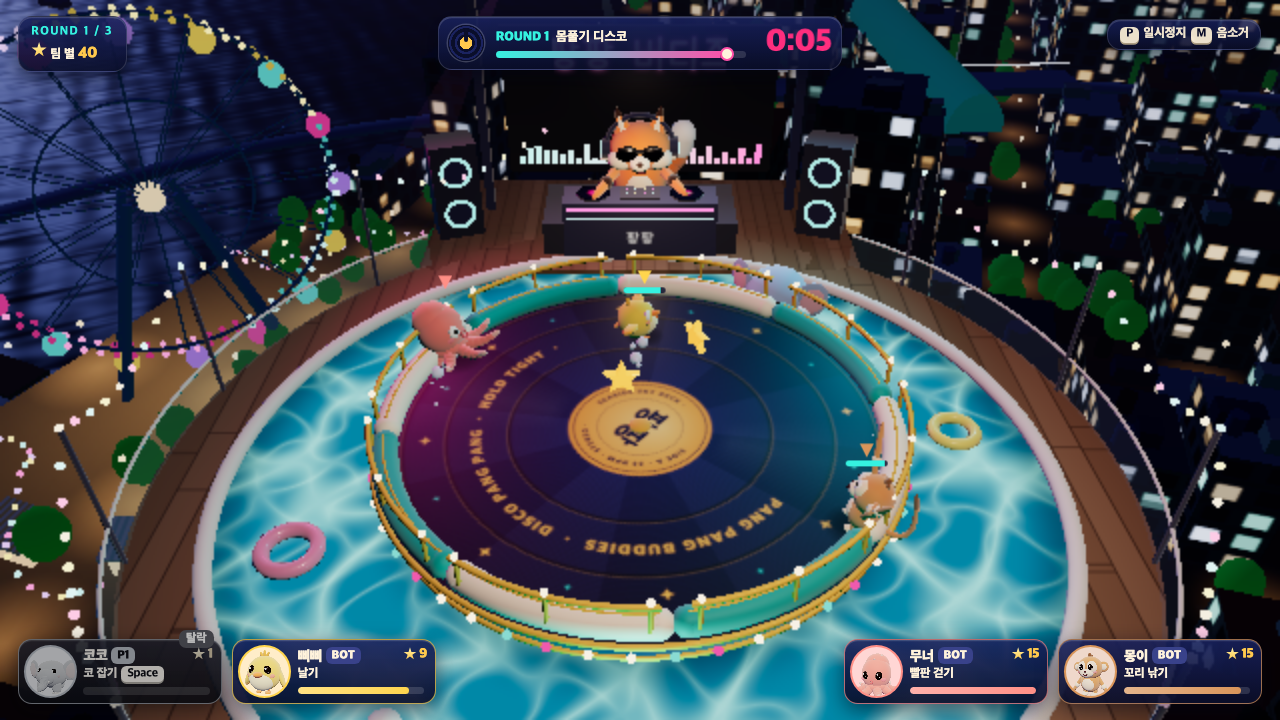
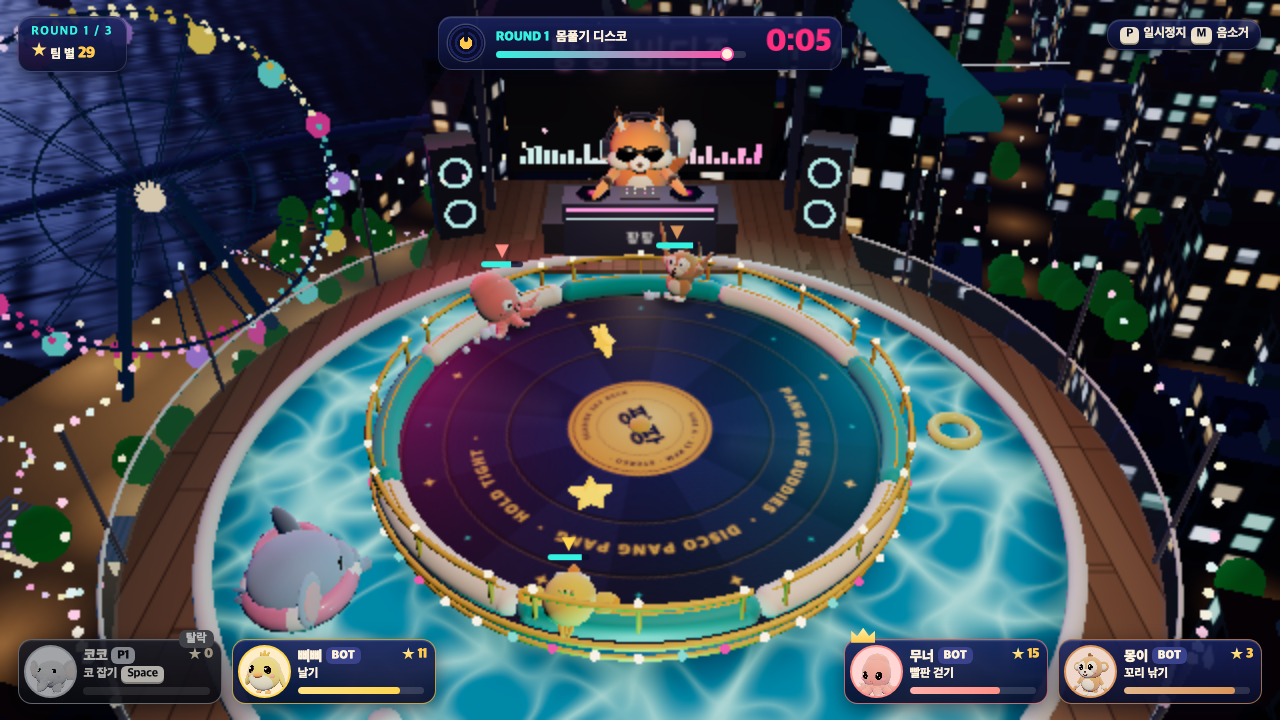
feat: stronger pangs, combo pangs and critical pangs

diff --git a/src/main.js b/src/main.js
@@ -1639,17 +1639,20 @@ const Sim = (() => {
     const cues = [], b = 60 / s.dj.bpm, T = tune.round_seconds, snap = t => Math.round(t / b) * b;
     const top = [tune.spin_r1, tune.spin_r2, tune.spin_r3][n - 1], gap = [tune.pang_gap_r1, tune.pang_gap_r2, tune.pang_gap_r3][n - 1];
     const fakeP = [0, tune.fake_chance_r2, tune.fake_chance_r3][n - 1];
+    const critP = [tune.crit_chance_r1, tune.crit_chance_r2, tune.crit_chance_r3][n - 1], comboN = Math.round([tune.combo_r1, tune.combo_r2, tune.combo_r3][n - 1]);
     const push = (t, type, o) => cues.push(Object.assign({ t: Math.max(0, t), type }, o || {}));
     const pang = (t, power, o) => { // t is the impact, counted in on the beats before it
       o = o || {}; const cnt = o.count || 2;
       push(t - cnt * b, 'ring', { at: t, fake: o.fake ? 1 : 0, dur: cnt * b, quick: 0, teach: o.teach ? 1 : 0 });
       for (let i = 0; i < cnt; i++) push(t - (cnt - i) * b, 'count', { i: i + 1 });
       if (o.fake) { const late = snap(0.55 + rng() * 0.9) || b; push(t, 'fakeout'); push(t + late - 0.42, 'ring', { at: t + late, fake: 0, dur: 0.42, quick: 1, teach: 0 }); push(t + late, 'impact', { power, tgt: -1 }); }
-      else push(t, 'impact', { power, tgt: o.spot ? -2 : -1 });
+      else { const crit = !o.teach && !o.combo && rng() < critP ? 1 : 0; if (crit) push(t - b, 'critWarn'); push(t, 'impact', { power: crit ? power * tune.crit_mult : power, tgt: o.spot ? -2 : -1, crit }); }
+      if (o.combo) push(t - cnt * b, 'comboWarn', { n: (o.more || 0) + 1 });
       for (let k = 1; k <= (o.more || 0); k++) { push(t + (k - 1) * 2 * b + 0.05, 'ring', { at: t + k * 2 * b, fake: 0, dur: 2 * b - 0.05, quick: 0, teach: 0 }); push(t + k * 2 * b, 'impact', { power: power * 0.92, tgt: -1 }); }
     };
     const tilt = (t) => { const dir = Math.floor(rng() * 4) * Math.PI / 2 + (rng() - 0.5) * 0.5; push(t - 1.2, 'tiltWarn', { dir }); push(t, 'tiltOn', { dir }); push(t + tune.tilt_hold, 'tiltOff'); };
     const scratch = t => push(t, 'scratch');
+    const combo = (t, power) => pang(t, power, { more: comboN - 1, combo: 1 }); // 연속 팡팡: comboN hits, one every two beats
     const spot = (t, power) => { push(t - tune.spot_warn, 'spot'); pang(t, power, { spot: 1 }); };
     push(0, 'spin', { w: top * 0.5 });
     if (n === 1) {
@@ -1658,7 +1661,7 @@ const Sim = (() => {
       push(p1 + 3, 'spin', { w: top }); push(p1 + 3, 'say', { text: '속도 올립니다~' });
       pang(p2, 1, { teach: 1 });
       let t = p2 + gap, k = 0;
-      while (t < T - 9.5) { if (k === 2) pang(snap(t), 0.95, { more: 1 }); else pang(snap(t), 0.85 + rng() * 0.15); if (k % 2) push(t + 1.5, 'spin', { w: top * (0.8 + rng() * 0.3) }); t += gap * (0.9 + rng() * 0.25) + (k === 2 ? 2 * b : 0); k++; }
+      while (t < T - 9.5) { if (k === 2) combo(snap(t), 0.95); else pang(snap(t), 0.85 + rng() * 0.15); if (k % 2) push(t + 1.5, 'spin', { w: top * (0.8 + rng() * 0.3) }); t += gap * (0.9 + rng() * 0.25) + (k === 2 ? 2 * b : 0); k++; }
       push(T - 9, 'spin', { w: top * 1.25 }); push(T - 9, 'say', { text: '막판 스퍼트! 버틸 수 있을까~?' });
       pang(snap(T - 6.2), 1); pang(snap(T - 2.6), 1);
     } else if (n === 2) {
@@ -1673,7 +1676,7 @@ const Sim = (() => {
         else if (r < 0.52) tilt(st);
         else if (r < 0.74) { tilt(st); pang(snap(st + 1.6), 0.9); t += 1.2; }
         else if (r < 0.9) { scratch(st); pang(snap(st + 2.2), 0.95); t += 1.2; }
-        else pang(st, 0.9, { more: 1 });
+        else combo(st, 0.9);
         t += gap * (0.9 + rng() * 0.25); k++;
       }
       push(T - 9.5, 'spin', { w: top * 1.2 }); push(T - 9.5, 'say', { text: '10초 남았다! 버텨 봐~' });
@@ -1691,11 +1694,11 @@ const Sim = (() => {
         else if (r < 0.5) spot(st, 1);
         else if (r < 0.7) { tilt(st); pang(snap(st + 1.6), 0.95); t += 1.2; }
         else if (r < 0.85) { scratch(st); pang(snap(st + 2.2), 1); t += 1.2; }
-        else pang(st, 0.95, { more: 2 });
+        else combo(st, 0.95);
         t += gap * (0.9 + rng() * 0.25);
       }
       push(T - 9.5, 'spin', { w: top * 1.3 }); push(T - 9.5, 'say', { text: '마지막이다~! 다 떨어져라!' });
-      pang(snap(T - 7.4), 1); pang(snap(T - 4.2), 1, { more: 1 });
+      pang(snap(T - 7.4), 1); combo(snap(T - 4.6), 1);
     }
     cues.sort((p, q) => p.t - q.t);
     return cues;
@@ -1713,7 +1716,9 @@ const Sim = (() => {
     else if (c.type === 'ring') { s.tele = { at: c.at, start: s.rt, dur: Math.max(0.05, c.at - s.rt), fake: c.fake, quick: c.quick }; botsOnRing(s, c); }
     else if (c.type === 'count') { callout(s, ['하나!', '둘!', '셋!'][c.i - 1], 'count'); mood(s, 'count'); dj.count = c.i; sfx('count', c.i); }
     else if (c.type === 'fakeout') { callout(s, '안 해~', 'fake'); mood(s, 'laugh'); s.tele = null; sfx('fake'); if (rng() < 0.6) say(s, pick(['속았지~?', '어? 벌써 힘 뺐어요?', '아직이야~ 아직!'])); }
-    else if (c.type === 'impact') doPang(s, c.power, c.tgt === -2 ? dj.spot : -1);
+    else if (c.type === 'impact') doPang(s, c.power, c.tgt === -2 ? dj.spot : -1, c.crit);
+    else if (c.type === 'critWarn') { say(s, pick(['이번엔 세게 간다~!', '크리티컬 준비~!', '꽉 잡아~ 진짜 세다!'])); sfx('warn'); }
+    else if (c.type === 'comboWarn') say(s, c.n + '연타 콤보 간다~!');
     else if (c.type === 'tiltWarn') { dj.tiltWarn = 1; dj.tiltArrow = c.dir; callout(s, DIRNAME(c.dir) + '으로 기울어요!', 'warn'); sfx('warn'); }
     else if (c.type === 'tiltOn') { d.tiltT = tune.tilt_angle * Math.PI / 180; d.tiltDir = c.dir; dj.tiltWarn = 2; dj.tiltArrow = c.dir; sfx('tilt'); }
     else if (c.type === 'tiltOff') { d.tiltT = 0; dj.tiltWarn = 0; }
@@ -1725,9 +1730,10 @@ const Sim = (() => {
       if (on.length) { const a = pick(on); dj.spot = a.kind; dj.pointX = clamp(a.x / 6, -1, 1); mood(s, 'point'); callout(s, KINDS[a.kind].name + ' 지목!', 'spot'); say(s, KINDS[a.kind].name + ' 손님~ 준비됐나요?'); sfx('spot'); }
     }
   }
-  function doPang(s, power, tgt) {
+  function doPang(s, power, tgt, crit) {
     const d = s.disc;
-    s.pangT = s.t; d.hv += 5.2 * power; s.tele = null; mood(s, 'slam'); callout(s, '팡!', 'pang'); fx('pang', 0, 0, 0, power); sfx('pang', power);
+    s.pangT = s.t; d.hv += 5.2 * power; s.tele = null; mood(s, 'slam'); callout(s, crit ? '크리티컬 팡!' : '팡!', crit ? 'fail' : 'pang'); fx('pang', 0, 0, 0, power); sfx('pang', power);
+    if (crit) { fx('shake', 0, 0, 0, 1.1); sfx('gate'); }
     for (const a of s.animals) {
       const mult = power * (a.kind === tgt ? tune.spot_bonus : 1);
       if (a.mode === 'hang') { a.hangT -= tune.hang_pang_loss * power; continue; }

diff --git a/data/config-notes.md b/data/config-notes.md
@@ -95,3 +95,6 @@ holds no comments. The values themselves are in `data/config.json`.
 - `cam_dist`: m back from the centre
 - `cam_fov`: degrees
 - `cam_shake`: x screen shake on a pang
+- combo_r1/r2/r3: hits in a combo pang (연속 팡팡), one every two beats, per round
+- crit_chance_r1/r2/r3: share of ordinary pangs that are critical, per round
+- crit_mult: x power of a critical pang
